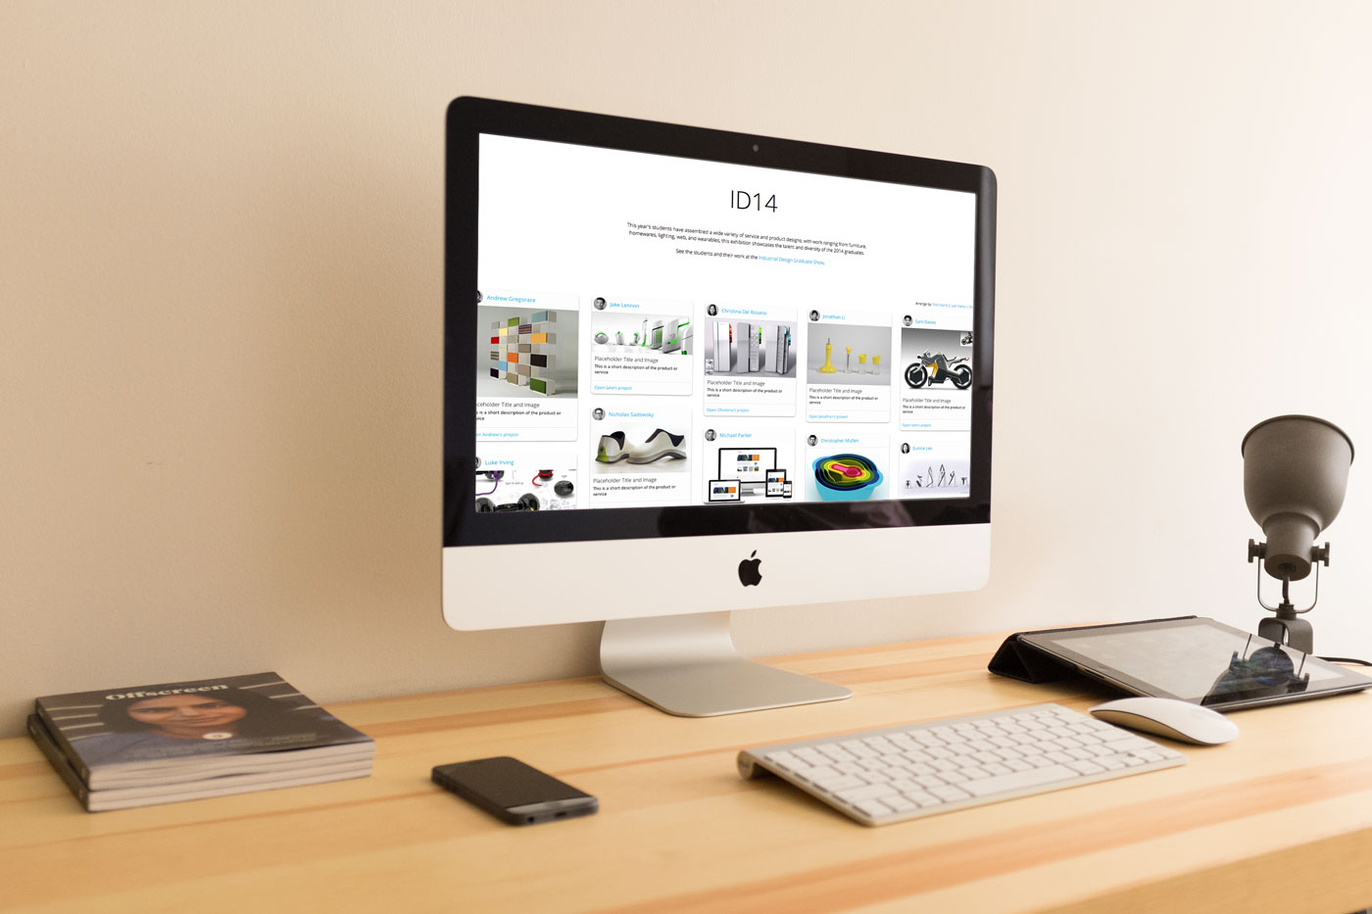
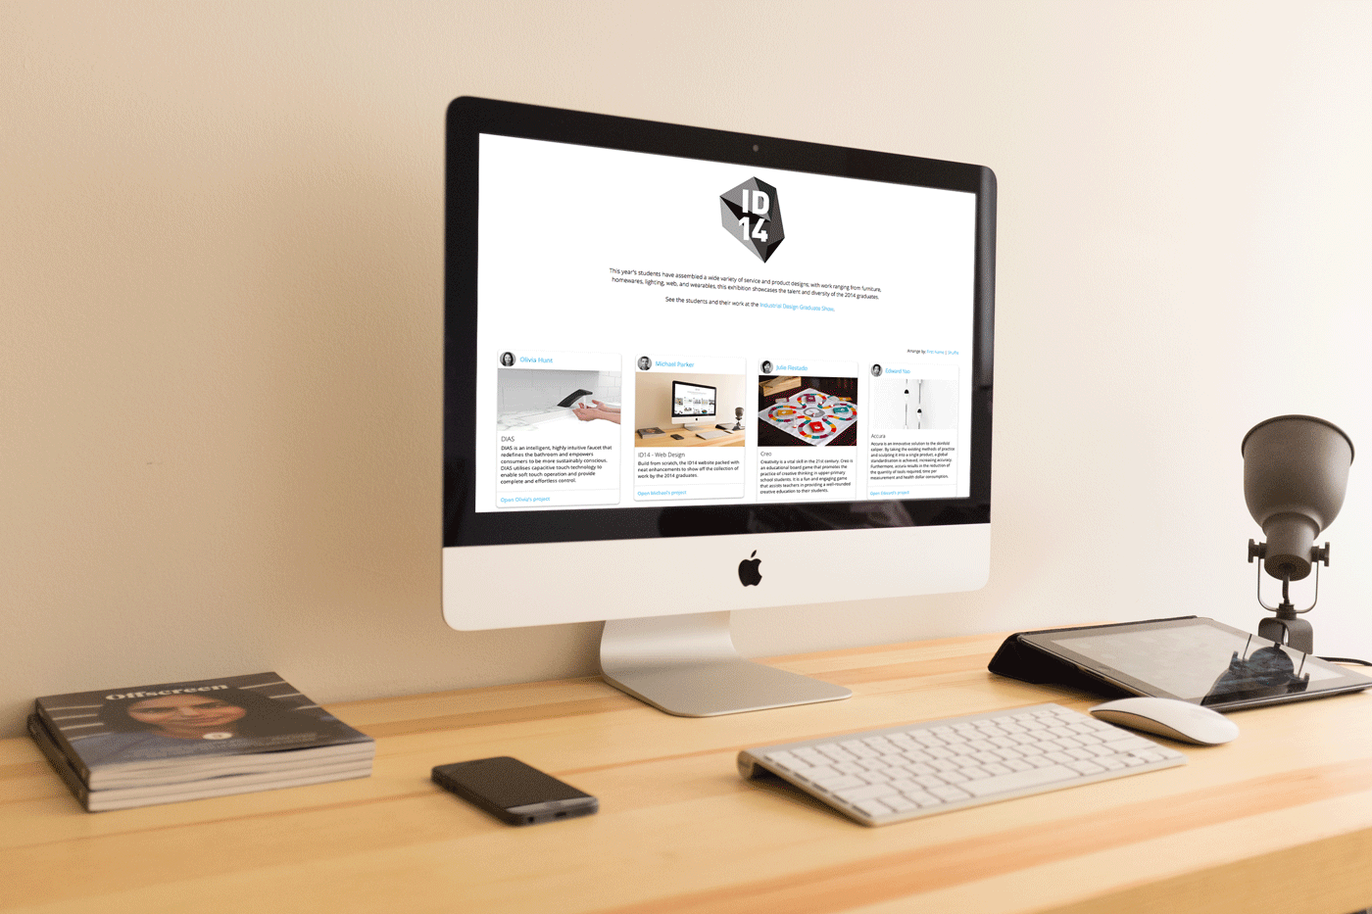
bug fixes

Changed region(s): [[0.3379, 0.1865, 0.7064, 0.5595]]

diff --git a/src/js/temp/templateCache.js b/src/js/temp/templateCache.js
@@ -1,6 +1,6 @@
 angular.module("templatescache", []).run(["$templateCache", function($templateCache) {$templateCache.put("cardTemplate.html","<div class=\"card\">\n	<a ng-href=\"#project/{{getId(brick)}}\">\n	<div class=\"contact\">\n		<div class=\"contactPhotoContainer\">\n			<img ng-src=\"{{brick.userPhoto}}\" class=\"contactPhotoContainer\">\n		</div>\n		<div class=\"name\"> \n			<a ng-href=\"#project/{{getId(brick)}}\">{{brick.firstName}} {{brick.lastName}}</a> \n			</div>\n		</div>\n	<div class=\"projectPhotoContainer images-loaded\"> \n		<img class=\"projectPhoto\" ng-src=\"{{brick.projectThumb}}\">\n	</div>\n	<div class=\"project\">\n		<div class=\"projectTitle\">\n			<p>{{brick.projectTitle}}</p>\n		</div>\n		<div class=\"projectDesc\">\n		{{brick.projectSynopsis}}\n		</div>\n\n		<div class=\"actions\">\n			<hr>\n			<a ng-href=\"#project/{{getId(brick)}}\" ng-bind=\"setProjectName(brick.firstName)\"></a>\n			</div>\n		</div>\n		</a>\n</div>\n");
-$templateCache.put("home.html","<div class=\"infoContainer\">\n  <img style=\"margin:25px\" src=\"assets/images/global/logo.jpg\" alt=\"ID14 logo\"/>\n  <p>This year\'s students have assembled a wide variety of service and product designs; with work ranging from furniture, homewares, lighting, web, and wearables, this exhibition showcases the talent and diversity of the 2014 graduates. </p><br/><p> See the students and their work at the <span id=\"link\" ng-click=\"showInfo()\"> Industrial Design Graduate Show</span>.</p>\n</div>\n\n<div class=\"eventContainer animate-slide\" ng-if=\"showingInfo\">\n  <a name=\"info\"></a>\n  <a href=\"https://www.google.com.au/maps/place/University+of+Technology,+Sydney\" target =\"_blank\"><div class=\"map\"> <img class=\"map\" ng-src=\"assets/images/global/uts_map.jpg\" alt=\"uts_map\"></div></a>\n  <div class=\"eventInfo\">\n    <p> <strong>Industrial Design Graduate Show </strong></p>\n    <p> UTS Foyer - Level 4, Tower Building</p>\n    <br/>\n    <p><span id=\"openingNight\"> Tue 25th November, 6pm to 9pm (Opening Night)<span></p>\n    <p> Wed 26th November</p>\n    <p> Thu 27th November</p>\n    <br/>\n    <p> <a href=\"https://www.google.com.au/maps/place/University+of+Technology,+Sydney\" target=\"_blank\">Directions to UTS</a></p>\n    <p><a href=\"assets/images/global/event.ics\" target=\"_blank\">+ Add to calendar </a></p>\n\n  </div>\n</div>\n  <div class=\"loader\" id=\"projectLoader\"> Loading projects...<br/><hr></div>\n\n  <div id=\"projects\" class=\"projectContainer hidden\">\n    <div id=\"sort-options\" class=\"brickContainer\">\n      <!-- SORT OPTIONS-->\n      <div class=\"sort-group\" opt-kind=\"\" ok-key=\"sortBy\">\n        <div ng-include=\" \'sortOptions.html\' \"></div>\n      </div>\n    </div>\n\n    <!-- PROJECTS -->\n    <div isotope-container=\"isotope-container\" class=\"brickContainer\">\n      <div ng-repeat=\"brick in bricks\"  isotope-item=\"isotope-item item\">\n        <div ng-include=\"\'cardTemplate.html\' \"></div>\n      </div>\n    </div>\n\n    <div class=\"sponsors\">\n      <a name=\"sponsors\"></a>\n      <p>A special thank you to our event sponsors:</p>\n      <br/>\n      <a href=\"http://uts.edu.au\" target=\"_blank\"><img ng-src=\"assets/images/global/UTS_logo.jpg\" alt=\"UTS\"/></a>\n    </div>\n  </div>\n");
-$templateCache.put("index.html","<!DOCTYPE html>\n<html lang=\"en\">\n<head>\n	<meta charset=\"UTF-8\">\n	<meta http-equiv=\"Cache-Control\" content=\"public\"/>\n	<!-- <meta name=\"viewport\" content=\"width=device-width, initial-scale=1, user-scalable=no\"> -->\n	<meta name=\"viewport\" content=\"width=device-width, initial-scale=1, user-scalable=no\">\n	<meta name=\"apple-mobile-web-app-capable\" content=\"yes\">\n	<link rel=\"apple-touch-icon\" sizes=\"152x152\" href=\"assets/images/global/apple-touch-icon-152.jpg\">\n	<base href=\"/\">\n	<title>UTS Industrial Design | Graduate Show 2014</title>\n\n	<!-- SEO -->\n	<meta name=\"description\" content=\"This year\'s students have assembled a wide variety of service and product designs; with work ranging from furniture, homewares, lighting, web, and wearables, this exhibition showcases the talent and diversity of the 2014 graduates.\"/>\n	<meta property=\"og:title\" content=\"Industrial Design Graduate Show (2014)\"/>\n	<meta property=\"og:type\" content=\"gallery\"/>\n	<meta property=\"og:url\" content=\"utsid14.com\"/>\n	<meta property=\"og:description\" content=\"This year\'s students have assembled a wide variety of service and product designs; with work ranging from furniture, homewares, lighting, web, and wearables, this exhibition showcases the talent and diversity of the 2014 graduates.\">\n	<meta property=\"keywords\" content=\"UTS, univeristy, technology, sydney, industrial, design, id14, graduate, show, grad, product, service, innovation, student, works, show, event, exhibition, 2014, 14, showcase, viscomm, id, fashion, graphic, industrial design, product design, IPD, web, wearable, furniture, homeware, homewares, lighting, batchelor, degree\">\n	<meta property=\"author\" content=\"University of Technology, Sydney\"/>\n\n	<!-- Styles -->\n	<link rel=\"stylesheet\" type=\"text/css\" href=\"assets/css/stylesheet.css\"/>\n	<link rel=\"stylesheet\" type=\"text/css\" href=\"assets/js/lib/normalize-css/normalize.css\"/>\n	\n	<!-- Animation Libraries -->\n	<script src=\"assets/js/lib/jquery/dist/jquery.min.js\"></script>\n	<script src=\"assets/js/lib/isotope/jquery.isotope.min.js\"></script>\n	<script src=\"assets/js/lib/imagesloaded/imagesloaded.pkgd.min.js\"></script>\n\n	<!-- Angular Dependacies -->\n	<script type=\"text/javascript\" src=\"assets/js/lib/angular/angular.min.js\"></script>\n	<script src=\"assets/js/lib/angular-isotope/dist/angular-isotope.min.js\"></script>\n	<script src=\"assets/js/lib/angular-images-loaded/angular-images-loaded.js\"></script>\n	<script src=\"assets/js/lib/angular-retina/dist/angular-retina.min.js\"></script>\n	<script src=\"assets/js/lib/angular-animate/angular-animate.min.js\"></script>\n	<script src=\"assets/js/lib/angular-route/angular-route.min.js\"></script>\n	<!-- CMS -->\n	<script src=\"assets/js/lib/contentful/dist/contentful.min.js\"></script>\n	<script src=\"assets/js/lib/ng-contentful/ng-contentful.js\"></script>\n\n	<!-- APP -->\n	<script type=\"text/javascript\" src=\"assets/js/app.js\"></script>\n\n\n</head>\n\n<body ng-app=\"id14App\">\n\n\n<ng-view></ng-view>\n\n\n\n\n<footer>\n	<p>Designed &amp; developed by <a href=\"#\" target=\"_blank\">Michael Parker</a></p>\n	<p>&#xA9;2014</p>\n	<br/>\n</footer>\n\n<div class=\"projectPanelContainer animate-fade\" ng-if=\"showingProject\">\n	<div class=\"projectBackground\"></div>\n	<div ng-include=\" \'projectPanel.html\' \"></div>\n</div>\n\n\n<!--Google analytics -->\n<script>\n  (function(i,s,o,g,r,a,m){i[\'GoogleAnalyticsObject\']=r;i[r]=i[r]||function(){\n  (i[r].q=i[r].q||[]).push(arguments)},i[r].l=1*new Date();a=s.createElement(o),\n  m=s.getElementsByTagName(o)[0];a.async=1;a.src=g;m.parentNode.insertBefore(a,m)\n  })(window,document,\'script\',\'//www.google-analytics.com/analytics.js\',\'ga\');\n  ga(\'create\', \'UA-54301603-1\', \'auto\');\n  ga(\'send\', \'pageview\');\n</script>\n</body>\n</html>\n");
-$templateCache.put("project.html","<div id=\"backButton\">\n<span id=\"backButtonContainer\">ID14 / <a ng-href=\"#home\" ng-click=\"showProject()\"> All Projects</a> / <a ng-href=\"#\">{{cardSelected.firstName}} {{cardSelected.lastName}}</a>\n</div>\n\n<div ng-show=\"projectLoaded\" class=\"animate-fade\">\n	<div class=\"projectPanelHeroContainer\" ng-style=\"{\'background-image\':\'url({{cardSelected.projectImage}})\'}\">\n		<div class=\"projectPanelHero\" >\n			<img ng-src=\"{{cardSelected.projectImage}}\" class=\"heroPhoto\">\n		</div>\n	</div>\n\n	<div class=\"content projectNav\"><span class=\"projectNav\" id=\"projectNav\">\n	<a ng-href=\"#project/{{getPrevId()}}\">Previous Project</a> | <a ng-href=\"#project/{{getNextId()}}\">Next Project</a></span></div>\n	<div class=\"projectContact content\">\n		<div id=\"projectUserPhoto\">\n			<img id=\"projectUserPhoto\" ng-src=\"{{cardSelected.userPhoto}}\" width=\"100\" height=\"100\">\n		</div>\n		<div id=\"projectUserDetails\">\n		<p><strong>{{cardSelected.firstName}} {{cardSelected.lastName}}</strong></p>\n		<p><a href=\"mailto:{{cardSelected.email}}\">{{cardSelected.email}}</a></p>\n		<p ng-show=\"showingPortfolio\"><a href=\"{{cardSelected.userPortfolio}}\" target=\"_blank\">See {{cardSelected.firstName}}\'s Portfolio</a></p>\n		<p ng-show=\"showingLinkedIn\"><a href=\"{{cardSelected.linkedIn}}\" target=\"_blank\">Connect on LinkedIn</a></p>\n		</div>\n	</div>\n	<div class=\"projectContent content\">\n		{{cardSelected.projectTitle}}\n		<p ng-bind-html=\"toTrusted(cardSelected.projectDescription)\"></p>\n		<br/><br/>\n	</div>\n	<div class=\"content projectNav\"><a ng-href=\"#home\" ng-click=\"showProject()\"> All Projects</a><span id=\"projectNav\">\n		<a ng-href=\"#project/{{getPrevId()}}\">Previous Project</a> | <a ng-href=\"#project/{{getNextId()}}\">Next Project</a></span><br/></div>\n</div>");
+$templateCache.put("home.html","<div class=\"infoContainer\">\n  <img style=\"margin:25px\" src=\"assets/images/global/logo.png\" alt=\"ID14 logo\"/>\n  <p>This year\'s students have assembled a wide variety of service and product designs; with work ranging from furniture, homewares, lighting, web, and wearables, this exhibition showcases the talent and diversity of the 2014 graduates. </p><br/><p> See the students and their work at the <span id=\"link\" ng-click=\"showInfo()\"> Industrial Design Graduate Show</span>.</p>\n</div>\n\n<div class=\"eventContainer animate-slide\" ng-if=\"showingInfo\">\n  <a name=\"info\"></a>\n  <a href=\"https://www.google.com.au/maps/place/University+of+Technology,+Sydney\" target =\"_blank\"><div class=\"map\"> <img class=\"map\" ng-src=\"assets/images/global/uts_map.jpg\" alt=\"uts_map\"></div></a>\n  <div class=\"eventInfo\">\n    <p> <strong>Industrial Design Graduate Show </strong></p>\n    <p> UTS Foyer - Level 4, Tower Building</p>\n    <br/>\n    <p><span id=\"openingNight\"> Tue 25th November, 6pm to 9pm (Opening Night)<span></p>\n    <p> Wed 26th November</p>\n    <p> Thu 27th November</p>\n    <br/>\n    <p> <a href=\"https://www.google.com.au/maps/place/University+of+Technology,+Sydney\" target=\"_blank\">Directions to UTS</a></p>\n    <p><a href=\"assets/images/global/event.ics\" target=\"_blank\">+ Add to calendar </a></p>\n\n  </div>\n</div>\n  <div class=\"loader\" id=\"projectLoader\"> Loading projects...<br/><hr></div>\n\n  <div id=\"projects\" class=\"projectContainer hidden\">\n    <div id=\"sort-options\" class=\"brickContainer\">\n      <!-- SORT OPTIONS-->\n      <div class=\"sort-group\" opt-kind=\"\" ok-key=\"sortBy\">\n        <div ng-include=\" \'sortOptions.html\' \"></div>\n      </div>\n    </div>\n\n    <!-- PROJECTS -->\n    <div isotope-container=\"isotope-container\" class=\"brickContainer\">\n      <div ng-repeat=\"brick in bricks | orderBy: orderValue\" isotope-item=\"isotope-item item\">\n        <div ng-include=\"\'cardTemplate.html\' \"></div>\n      </div>\n    </div>\n\n    <div class=\"sponsors\">\n      <a name=\"sponsors\"></a>\n      <p>A special thank you to our event sponsors:</p>\n      <br/>\n      <a href=\"http://www.spenceandlyda.com.au\" target=\"_blank\"><img ng-src=\"assets/images/global/sponsor3.png\" alt=\"UTS\"/></a>\n      <a href=\"http://uts.edu.au\" target=\"_blank\"><img ng-src=\"assets/images/global/UTS_logo.jpg\" alt=\"UTS\"/></a>\n      <a href=\"http://www.expocentric.com.au\" target=\"_blank\"><img ng-src=\"assets/images/global/sponsor4.jpg\" alt=\"UTS\"/></a>\n    </div>\n  </div>\n\n<footer>\n  <p>Designed &amp; developed by <a href=\"#\" target=\"_blank\">Michael Parker</a></p>\n  <p>&#xA9;2014</p>\n  <br/>\n</footer>");
+$templateCache.put("index.html","<!DOCTYPE html>\n<html lang=\"en\">\n<head>\n	<meta charset=\"UTF-8\">\n	<meta http-equiv=\"Cache-Control\" content=\"public\"/>\n	<!-- <meta name=\"viewport\" content=\"width=device-width, initial-scale=1, user-scalable=no\"> -->\n	<meta name=\"viewport\" content=\"width=device-width, initial-scale=1, user-scalable=no\">\n	<meta name=\"apple-mobile-web-app-capable\" content=\"yes\">\n	<link rel=\"apple-touch-icon\" sizes=\"152x152\" href=\"assets/images/global/apple-touch-icon-152.jpg\">\n	<base href=\"/\">\n	<title>UTS Industrial Design | Graduate Show 2014</title>\n\n	<!-- SEO -->\n	<meta name=\"description\" content=\"This year\'s students have assembled a wide variety of service and product designs; with work ranging from furniture, homewares, lighting, web, and wearables, this exhibition showcases the talent and diversity of the 2014 graduates.\"/>\n	<meta property=\"og:title\" content=\"Industrial Design Graduate Show (2014)\"/>\n	<meta property=\"og:type\" content=\"gallery\"/>\n	<meta property=\"og:url\" content=\"utsid14.com\"/>\n	<meta property=\"og:description\" content=\"This year\'s students have assembled a wide variety of service and product designs; with work ranging from furniture, homewares, lighting, web, and wearables, this exhibition showcases the talent and diversity of the 2014 graduates.\">\n	<meta property=\"keywords\" content=\"UTS, univeristy, technology, sydney, industrial, design, id14, graduate, show, grad, product, service, innovation, student, works, show, event, exhibition, 2014, 14, showcase, viscomm, id, fashion, graphic, industrial design, product design, IPD, web, wearable, furniture, homeware, homewares, lighting, batchelor, degree\">\n	<meta property=\"author\" content=\"University of Technology, Sydney\"/>\n\n	<!-- Styles -->\n	<link rel=\"stylesheet\" type=\"text/css\" href=\"assets/css/stylesheet.css\"/>\n	<link rel=\"stylesheet\" type=\"text/css\" href=\"assets/js/lib/normalize-css/normalize.css\"/>\n	\n	<!-- Animation Libraries -->\n	<script src=\"assets/js/lib/jquery/dist/jquery.min.js\"></script>\n	<script src=\"assets/js/lib/isotope/jquery.isotope.min.js\"></script>\n	<script src=\"assets/js/lib/imagesloaded/imagesloaded.pkgd.min.js\"></script>\n\n	<!-- Angular Dependacies -->\n	<script type=\"text/javascript\" src=\"assets/js/lib/angular/angular.min.js\"></script>\n	<script src=\"assets/js/lib/angular-isotope/dist/angular-isotope.min.js\"></script>\n	<script src=\"assets/js/lib/angular-images-loaded/angular-images-loaded.js\"></script>\n	<script src=\"assets/js/lib/angular-retina/dist/angular-retina.min.js\"></script>\n	<script src=\"assets/js/lib/angular-animate/angular-animate.min.js\"></script>\n	<script src=\"assets/js/lib/angular-route/angular-route.min.js\"></script>\n	<!-- CMS -->\n	<script src=\"assets/js/lib/contentful/dist/contentful.min.js\"></script>\n	<script src=\"assets/js/lib/ng-contentful/ng-contentful.js\"></script>\n\n	<!-- APP -->\n	<script type=\"text/javascript\" src=\"assets/js/app.js\"></script>\n\n\n</head>\n\n<body ng-app=\"id14App\">\n\n\n<ng-view></ng-view>\n\n\n<br/><br/><br/>\n\n\n<!--Google analytics -->\n<script>\n  (function(i,s,o,g,r,a,m){i[\'GoogleAnalyticsObject\']=r;i[r]=i[r]||function(){\n  (i[r].q=i[r].q||[]).push(arguments)},i[r].l=1*new Date();a=s.createElement(o),\n  m=s.getElementsByTagName(o)[0];a.async=1;a.src=g;m.parentNode.insertBefore(a,m)\n  })(window,document,\'script\',\'//www.google-analytics.com/analytics.js\',\'ga\');\n  ga(\'create\', \'UA-54301603-1\', \'auto\');\n  ga(\'send\', \'pageview\');\n</script>\n</body>\n</html>\n");
+$templateCache.put("project.html","<div id=\"backButton\">\n<span id=\"backButtonContainer\">ID14 / <a ng-href=\"#home\"> All Projects</a> / <a>{{cardSelected.firstName}} {{cardSelected.lastName}}</a></span>\n</div>\n\n<div ng-if=\"projectLoaded\" class=\"projectDetail animate-slide\">\n	<div class=\"projectPanelHeroContainer\" ng-style=\"{\'background-image\':\'url({{cardSelected.projectImage}})\'}\">\n		<div class=\"projectPanelHero\" >\n			<img ng-src=\"{{cardSelected.projectImage}}\" class=\"heroPhoto\">\n		</div>\n	</div>\n\n	<div class=\"content projectNav\"><span class=\"projectNav\" id=\"projectNav\">\n	<a ng-href=\"#project/{{getPrevId()}}\">Previous Project</a> | <a ng-href=\"#project/{{getNextId()}}\">Next Project</a></span></div>\n	<div class=\"projectContact content\">\n		<div id=\"projectUserPhoto\">\n			<img id=\"projectUserPhoto\" ng-src=\"{{cardSelected.userPhoto}}\" width=\"100\" height=\"100\">\n		</div>\n		<div id=\"projectUserDetails\">\n		<p><strong>{{cardSelected.firstName}} {{cardSelected.lastName}}</strong></p>\n		<p><a href=\"mailto:{{cardSelected.email}}\">{{cardSelected.email}}</a></p>\n		<p ng-show=\"showingPortfolio\"><a href=\"{{cardSelected.userPortfolio}}\" target=\"_blank\">See {{cardSelected.firstName}}\'s Portfolio</a></p>\n		<p ng-show=\"showingLinkedIn\"><a href=\"{{cardSelected.linkedIn}}\" target=\"_blank\">Connect on LinkedIn</a></p>\n		</div>\n	</div>\n	<div class=\"projectContent content\">\n		{{cardSelected.projectTitle}}\n		<p ng-bind-html=\"toTrusted(cardSelected.projectDescription)\"></p>\n		<br/><br/>\n	</div>\n	<div class=\"content projectNav\"><a ng-href=\"#home\" ng-click=\"showProject()\"> All Projects</a><span id=\"projectNav\">\n		<a ng-href=\"#project/{{getPrevId()}}\">Previous Project</a> | <a ng-href=\"#project/{{getNextId()}}\">Next Project</a></span><br/></div>\n</div>");
 $templateCache.put("projectPanel.html","<div class=\"projectPanel\" id=\"project-panel\">\n	<div id=\"backButton\">ID14 / <a href=\"#\" ng-click=\"showProject()\"> All Projects</a> / <a href=\"#\">{{cardSelected.firstName}} {{cardSelected.lastName}}</a></div>\n	<div class=\"projectPanelHeroContainer\">\n		<div class=\"projectPanelHero\" ng-style=\"{\'background-image\':\'url({{cardSelected.projectPhoto.url}})\'}\">\n			<!-- <img ng-src=\"{{cardSelected.projectPhoto.url}}\" class=\"projectPanelHeroContainer\">  -->\n		</div>\n	</div>\n	\n	<div class=\"projectContact content\">\n		<div id=\"projectUserPhoto\">\n			<img id=\"projectUserPhoto\" ng-src=\"{{cardSelected.userPhoto}}\" width=\"100\" height=\"100\">\n		</div>\n		<div id=\"projectUserDetails\">\n		<p><strong>{{cardSelected.firstName}} {{cardSelected.lastName}}</strong></p>\n		<p><a href=\"mailto:{{cardSelected.email}}\">{{cardSelected.email}}</a></p>\n		<p ng-show=\"showingPortfolio\"><a href=\"{{cardSelected.userPortfolio}}\" target=\"_blank\">See {{cardSelected.firstName}}\'s Portfolio</a></p>\n		<p ng-show=\"showingLinkedIn\"><a href=\"{{cardSelected.linkedIn}}\" target=\"_blank\">Connect on LinkedIn</a></p>\n		</div>\n	</div>\n	<div class=\"projectContent content\">\n		{{cardSelected.projectTitle}}\n		<p ng-bind-html=\"toTrusted(cardSelected.projectDescription)\"></p>\n		<br/><br/>\n		<a href=\"#\" ng-click=\"showProject()\">Back to all projects</a>\n	</div>\n\n</div>");
-$templateCache.put("sortOptions.html","<div class=\"btn-group\" opt-kind=\"\" ok-key=\"sortBy\">\nArrange by:\n<a ok-sel=\".firstName\" ok-type=\"\" ng-click=\"layout();\">First Name</a> | <a ok-sel=\"[id]\" ok-type=\"integer\">Last Name</a> | <a ng-click=\"shuffle()\">Shuffle</a>\n</div>\n");}]);
+$templateCache.put("sortOptions.html","<div class=\"btn-group\" opt-kind=\"\" ok-key=\"sortBy\">\nArrange by:\n<a ok-sel=\".firstName\" ok-type=\"\" ng-click=\"setOrder(firstName)\">First Name</a> | <a ok-sel=\".lastName\" ok-type=\"integer\" ng-click=\"setOrder(lastName)\">Last Name</a> | <a ok-sel=\".projectTitle\" ok-type=\"\" ng-click=\"setOrder(projectTitle)\">Project Name</a> <span id=\"shuffleOption\">| <a ng-click=\"shuffle()\">Shuffle</a></span>\n</div>\n");}]);

diff --git a/src/js/app.js b/src/js/app.js
@@ -36,7 +36,6 @@ angular.module('id14App', ['templatescache', 'iso.directives', 'ngAnimate', 'ngR
 			});
 	}))
 
-
 	.controller('projectController', ng(function ($scope, $routeParams, $http, $sce, $location) {
 		// $http.get('assets/data/data.json').success(function(data){
 		// 	var parsedData = [];
@@ -52,10 +51,10 @@ angular.module('id14App', ['templatescache', 'iso.directives', 'ngAnimate', 'ngR
 			 if (err) { console.log(err); return; }
 			  for(x in entries){
 			  	parsedData.push(entries[x].fields);
-			  	// console.log(entries[x].fields);
+			  	//console.log(entries[x].fields);
 			  }
 			  $scope.bricks = parsedData;
-			  console.log($scope.bricks.length+" bricks loaded");
+			  // console.log($scope.bricks.length+" bricks loaded");
 
 			
 			//console.log($routeParams);
@@ -69,8 +68,8 @@ angular.module('id14App', ['templatescache', 'iso.directives', 'ngAnimate', 'ngR
 			}
 
 			var cardSelected = $scope.bricks[brickId];
-			// console.log(cardSelected);
-			
+			 // console.log(cardSelected);
+
 			$scope.$apply(function() {
 				$scope.cardSelected = cardSelected;
 				$scope.projectLoaded = true;
@@ -103,6 +102,8 @@ angular.module('id14App', ['templatescache', 'iso.directives', 'ngAnimate', 'ngR
 			return $sce.trustAsHtml(html);
 		}
 
+		
+
 		$scope.getNextId = function(){
 			var thisId = parseInt($routeParams.id);
 			var nextId = thisId+1;
@@ -126,7 +127,9 @@ angular.module('id14App', ['templatescache', 'iso.directives', 'ngAnimate', 'ngR
 	.controller('id14Controller',  ng(function ($scope, $http, $sce, $location){
 	//get the content from the CMS
 	var bricks = [];
-		client.entries({}, function(err, entries) {
+		client.entries({
+			// 'content_type': 'student_project'
+		}, function(err, entries) {
 		 if (err) { console.log(err); return; }
 		  for(x in entries){
 		  	bricks.push(entries[x].fields);
@@ -153,6 +156,7 @@ angular.module('id14App', ['templatescache', 'iso.directives', 'ngAnimate', 'ngR
 			
 		// });
 		//======= HELPER FUNCTIONS HERE =============
+
 
 		//isotope layout and shuffle
 		$scope.layout = function(){
@@ -223,7 +227,12 @@ angular.module('id14App', ['templatescache', 'iso.directives', 'ngAnimate', 'ngR
 		})
 
 	//runs the project setup once the code has loaded
-	
+	$scope.orderValue = null;
+	$scope.setOrder = function(order){
+		$scope.orderValue = order;
+		$scope.layout();
+	}
+
 }));
 
 

diff --git a/src/html/home.html b/src/html/home.html
@@ -1,5 +1,5 @@
 <div class="infoContainer">
-  <img style="margin:25px" src="assets/images/global/logo.jpg" alt="ID14 logo"/>
+  <img style="margin:25px" src="assets/images/global/logo.png" alt="ID14 logo"/>
   <p>This year's students have assembled a wide variety of service and product designs; with work ranging from furniture, homewares, lighting, web, and wearables, this exhibition showcases the talent and diversity of the 2014 graduates. </p><br/><p> See the students and their work at the <span id="link" ng-click="showInfo()"> Industrial Design Graduate Show</span>.</p>
 </div>
 
@@ -31,7 +31,7 @@
 
     <!-- PROJECTS -->
     <div isotope-container="isotope-container" class="brickContainer">
-      <div ng-repeat="brick in bricks"  isotope-item="isotope-item item">
+      <div ng-repeat="brick in bricks | orderBy: orderValue" isotope-item="isotope-item item">
         <div ng-include="'cardTemplate.html' "></div>
       </div>
     </div>
@@ -40,6 +40,14 @@
       <a name="sponsors"></a>
       <p>A special thank you to our event sponsors:</p>
       <br/>
+      <a href="http://www.spenceandlyda.com.au" target="_blank"><img ng-src="assets/images/global/sponsor3.png" alt="UTS"/></a>
       <a href="http://uts.edu.au" target="_blank"><img ng-src="assets/images/global/UTS_logo.jpg" alt="UTS"/></a>
+      <a href="http://www.expocentric.com.au" target="_blank"><img ng-src="assets/images/global/sponsor4.jpg" alt="UTS"/></a>
     </div>
   </div>
+
+<footer>
+  <p>Designed &amp; developed by <a href="#" target="_blank">Michael Parker</a></p>
+  <p>&#xA9;2014</p>
+  <br/>
+</footer>

diff --git a/src/scss/stylesheet.scss b/src/scss/stylesheet.scss
@@ -25,6 +25,7 @@ a {
 a:hover {
 	color: #1CD5FF;
 }
+
 #link {
 	color: #29abe2;
 	cursor: pointer;
@@ -53,12 +54,22 @@ nav a{
 }
 
 #backButton{
+	position: fixed;
+	top: 0;
+	left: 0;
+	right: 0;
+	margin: auto;
 	width: 100%;
-	background-color: rgba(255,255,255,0.9);
+	max-width: 1800px;
+	margin-left: auto;
+	margin-right: auto;
+
+	background-color: rgba(255, 255, 255, 0.9);
 	font-size: 0.8em;
 	line-height: 40px;
-	text-align: middle;
 	height: 40px;
+	z-index: 4;
+	
 /*	padding-left: 10px;*/
 }
 
@@ -120,7 +131,8 @@ nav a{
 }
 
 .loader {
-	width: 70%;
+	width: 90%;
+	max-width: 1200px;
 	text-align: center;
 	font-size: 0.8em;
 	opacity: 1;
@@ -300,7 +312,7 @@ footer p {
 
 .sponsors {
 	min-width: 300px;
-	max-width: 700px;
+	max-width: 900px;
 	display: block;
 	margin-right: auto;
 	margin-left: auto;
@@ -577,6 +589,9 @@ iframe {
 	}
 	.projectNav {
 		font-size: 0.9em;
+	}
+	#shuffleOption {
+		visibility: hidden;
 	}
 }
 @media screen and (max-width: 320px){

diff --git a/src/html/project.html b/src/html/project.html
@@ -1,8 +1,8 @@
 <div id="backButton">
-<span id="backButtonContainer">ID14 / <a ng-href="#home" ng-click="showProject()"> All Projects</a> / <a ng-href="#">{{cardSelected.firstName}} {{cardSelected.lastName}}</a>
+<span id="backButtonContainer">ID14 / <a ng-href="#home"> All Projects</a> / <a>{{cardSelected.firstName}} {{cardSelected.lastName}}</a></span>
 </div>
 
-<div ng-show="projectLoaded" class="animate-fade">
+<div ng-if="projectLoaded" class="projectDetail animate-slide">
 	<div class="projectPanelHeroContainer" ng-style="{'background-image':'url({{cardSelected.projectImage}})'}">
 		<div class="projectPanelHero" >
 			<img ng-src="{{cardSelected.projectImage}}" class="heroPhoto">

diff --git a/src/html/sortOptions.html b/src/html/sortOptions.html
@@ -1,4 +1,4 @@
 <div class="btn-group" opt-kind="" ok-key="sortBy">
 Arrange by:
-<a ok-sel=".firstName" ok-type="" ng-click="layout();">First Name</a> | <a ok-sel="[id]" ok-type="integer">Last Name</a> | <a ng-click="shuffle()">Shuffle</a>
+<a ok-sel=".firstName" ok-type="" ng-click="setOrder(firstName)">First Name</a> | <a ok-sel=".lastName" ok-type="integer" ng-click="setOrder(lastName)">Last Name</a> | <a ok-sel=".projectTitle" ok-type="" ng-click="setOrder(projectTitle)">Project Name</a> <span id="shuffleOption">| <a ng-click="shuffle()">Shuffle</a></span>
 </div>

diff --git a/src/html/index.html b/src/html/index.html
@@ -51,18 +51,7 @@
 <ng-view></ng-view>
 
 
-
-
-<footer>
-	<p>Designed &amp; developed by <a href="#" target="_blank">Michael Parker</a></p>
-	<p>&#xA9;2014</p>
-	<br/>
-</footer>
-
-<div class="projectPanelContainer animate-fade" ng-if="showingProject">
-	<div class="projectBackground"></div>
-	<div ng-include=" 'projectPanel.html' "></div>
-</div>
+<br/><br/><br/>
 
 
 <!--Google analytics -->
